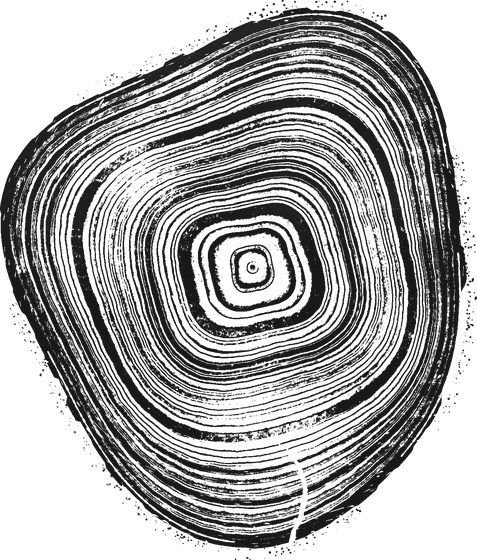
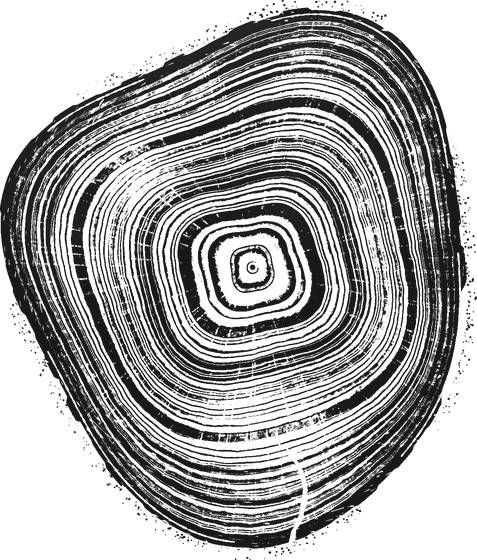
Rays in every wood and more solid ink, as a real tree-ring print has; choice slices re-pressed
Claude-Session: https://claude.ai/code/session_01WhGxUDQ2nhT1B8pKnZrdq5

diff --git a/src/rings/press.ts b/src/rings/press.ts
@@ -1757,6 +1757,38 @@ const ANATOMY: Partial<Record<Kind, Anatomy>> = {
   // Olive: dense, close and irregular, its figure a dark mottle wandering through the years.
   olive: { early: 0.6, late: 0.96, share: 0.22, edge: 1.0, rays: 0.6, rayW: 0.3, pores: 0.05, poreR: 0.3, poreEarly: 0, fibre: 0.35, mottle: 0.45 },
 };
+/**
+ * How strongly each wood's rays print: oak's many and plain, a conifer's barely there.
+ */
+const RAYS: Partial<Record<Kind, number>> = { oak: 0.95, ash: 0.7, cherry: 0.75, maple: 0.8, birch: 0.45, olive: 0.55, pine: 0.3, redwood: 0.25, bristlecone: 0.25 };
+/**
+ * The rays at a point (tree angle `a`, `rho` px out at the slice's own size), 0 to 1. Real rays keep about the
+ * same distance apart all the way out: a few begin at the heart, and as the wood widens new ones begin between
+ * them, each at its own radius; each wanders a little and breaks now and then. Laid out by levels, each twice
+ * the last's, a ray begun at one level running on through all the rest, so none ever jumps.
+ */
+function rayAt(a: number, rho: number): number {
+  const R0 = 10, GAP = 3.6;
+  if (rho < R0 * 0.6) return 0;
+  const lv = Math.max(0, Math.floor(Math.log2(rho / R0))), N0 = Math.max(6, Math.round((TAU * R0) / GAP)), N = N0 * 2 ** lv;
+  const sAt = (((a / TAU) % 1) + 1) % 1 * N, k0 = Math.floor(sAt);
+  let best = 0;
+  for (let k = k0 - 1; k <= k0 + 1; k++) {
+    // (Which level it was born at: k's odd part.)
+    let bk = ((k % N) + N) % N, bl = lv;
+    while (bl > 0 && bk % 2 === 0) { bk /= 2; bl--; }
+    const id = bk * 7.31 + bl * 31.7, nb = N0 * 2 ** bl, born = R0 * 2 ** bl * (bl ? 0.7 + 0.6 * h1(id * 1.9) : 0.6);
+    if (rho < born) continue;
+    // (Where it lies: its birth place, a little off even, wandering slowly outward.)
+    const at = ((bk + 0.5 + (h1(id) - 0.5) * 0.5) / nb + (Math.sin(rho / (40 + 30 * h1(id * 2.3)) + id) * 0.25) / nb) * N;
+    let dd = Math.abs(sAt - at); dd = Math.min(dd, N - dd);
+    const dist = (dd * TAU * rho) / N, half = 0.12 + 0.22 * h1(id * 3.7) ** 2;
+    if (dist > half + 0.6) continue;
+    if (vnoise(id * 0.37, rho / 14) < 0.3) continue;
+    best = Math.max(best, Math.min(1, smooth(1 - (dist - half) / 0.6)) * Math.min(1, (rho - born) / 3));
+  }
+  return best;
+}
 function printYears(v: View, oak: Years | null): void {
   const n = tree.rings.length, c = g.canvas as HTMLCanvasElement, B = 720, Z = Math.max(1, look.k);
   const scr = (r: number) => v.s * warpR(v.warp, r);
@@ -1816,7 +1848,7 @@ function printYears(v: View, oak: Years | null): void {
   // (The drawn woods: each year built as its kind's is, from the earlywood out to the latewood and its edge,
   // with its rays, pores and real fibre; all in the slice's own px (`U`), so looked into they're the same,
   // larger, never a fresh scatter.)
-  const an = oak ? null : ANATOMY[kind] ?? ANATOMY.cherry!, fib = wood.fibre[kind], U = px * Z, conifer = fam() === 'conifer';
+  const an = oak ? null : ANATOMY[kind] ?? ANATOMY.cherry!, fib = wood.fibre[kind], U = px * Z, conifer = fam() === 'conifer', RAY = RAYS[kind] ?? 0;
   const drawnInk = (i: number, a: number, r: number, across: number, heart: boolean, width: number, dx: number, dy: number): number => {
     const A = an!, rho = r / U;
     // The year: earlywood, a little deeper as it goes, then darkening into the latewood, ending sharp.
@@ -1828,12 +1860,6 @@ function printYears(v: View, oak: Years | null): void {
     // The real fibre, streaking along the year.
     if (fib && A.fibre) ink *= 1 + A.fibre * (tile(fib, a * rho * 0.5, rho * 0.5) - 0.5) * 2;
     if (A.mottle) ink *= 1 + A.mottle * (vnoise(dx / (22 * U) + 3.1, dy / (22 * U) + 7.7) - 0.5) * 2;
-    // Rays: fine radial lines, broken now and then, more of them further out, as rays begin as the wood widens.
-    if (A.rays) {
-      const lv = Math.max(0, Math.floor(Math.log2(Math.max(1, rho / 40)))), N = Math.round(A.rays * 22 * 2 ** lv);
-      const sAt = (a / TAU) * N, k = Math.floor(sAt), mid = k + 0.5 + (h1(k * 1.7 + lv * 31) - 0.5) * 0.7, dist = Math.abs(sAt - mid) * (TAU * rho) / N;
-      if (dist < A.rayW * 2 && vnoise(k * 3.1 + lv * 17, rho / 16) > 0.45) ink *= 0.78 + 0.22 * smooth(dist / A.rayW - 0.4);
-    }
     // Pores: open vessels, paper in the print, scattered (or gathered at the year's start), in the wood's place.
     if (A.pores) {
       const C = 3, ci = Math.floor(rho / C), cj = Math.floor((a * rho) / C), hh = h1(ci * 7.31 + cj * 1.713 + i * 0.37);
@@ -1892,6 +1918,9 @@ function printYears(v: View, oak: Years | null): void {
         const cov = Math.max(jo < 0 ? 0 : lineAt(jo, at(jo, b, f) - r), ji < 0 ? 0 : lineAt(ji, r - at(ji, b, f))) * (0.75 + 0.35 * vnoise(dx * 0.11 + i, dy * 0.11));
         if (cov > 0) ink = Math.max(ink, 0.95 * cov);
       }
+      // The rays: the wood's fine radial lines, open to the paper, crossing every year, so the latewood prints
+      // as a run of small bricks.
+      if (RAY && !heart) ink *= 1 - RAY * rayAt(a, r / U);
       const k = (y * w + x) * 4;
       d[k] = INK[0]; d[k + 1] = INK[1]; d[k + 2] = INK[2]; d[k + 3] = Math.round(255 * Math.min(1, ink));
     }
@@ -2001,11 +2030,11 @@ function inkGrain(c: HTMLCanvasElement, v: View, band?: [number, number], soft =
       let took = val;
       if (sea && field) {
         const u = mx * perTex, w = my * perTex;
-        took = val * (0.35 + 0.7 * tile(sea, u + 17, w + 31) * (0.55 + 0.45 * tile(field, (u * fc - w * fs) * 0.8, (u * fs + w * fc) * 0.8)));
+        took = val * (0.62 + 0.48 * tile(sea, u + 17, w + 31) * (0.75 + 0.25 * tile(field, (u * fc - w * fs) * 0.8, (u * fs + w * fc) * 0.8)));
         // (Looked at closer than the print's own grain: finer grain, at the screen's scale, so it stays crisp.)
         if (close > 0) took *= 1 + close * 0.22 * (vnoise((dx / Z) * 0.9 + 3.3, (dy / Z) * 0.9 + 7.1) - 0.5);
       }
-      const thr = 0.5 + (sea ? 0.35 : 0.95) * (t1 - 0.5) + 0.2 * (vnoise(mx * low + 40, my * low + 11) - 0.5) + saw;
+      const thr = 0.5 + (sea ? 0.22 : 0.95) * (t1 - 0.5) + 0.2 * (vnoise(mx * low + 40, my * low + 11) - 0.5) + saw;
       // (Took or not, sharply; `soft` keeps a pixel or so of the edge's own shading, for a print that's
       // shown larger than it was pressed, so it's never stepped.)
       const e = Math.max(0, Math.min(1, (took - thr + 0.07 * soft) / (0.14 * soft)));

diff --git a/RINGS-HISTORY.md b/RINGS-HISTORY.md
@@ -166,3 +166,5 @@ Still to come (`trees.ts`): a redwood with fires, a bristlecone with drought, a 
 **From the artist's own prints** (since October 17). Looking at real tree-ring prints, four things a real pressed slice has that ours didn't: the tree leans, so its heart sits off the middle and its years run wide on one side and close on the other (`leanOf`: none for the first dozen years, gathering over the next sixty, a third to two-thirds wider on its own side); the bark parts from the wood as the slice dries, a broken hairline of paper just inside it; a faint grey stipple just beyond the edge, ink caught from the block's rim; and broad patches where the ink starved, broken by the paper's tooth into speckle. The choosing slices pressed again with them.
 
 **Real ink** (since October 17). The ink's speckle is lifted from photographs of real tree-ring prints: the flecks of paper where the ink broke on the wood, in place of Munch's sea (`ink-speckle.png`; `?ink=munch` for the old).
+
+**Rays and solid ink, as a real print has** (since October 17). Every wood now prints its rays (`rayAt`): hairline radial lines open to the paper, a few from the heart and new ones beginning between them as the wood widens, so they keep about the same distance apart all the way out, each wandering a little and breaking now and then; plainest in oak (its latewood a run of small bricks), faint in the conifers (`RAYS`). And the ink is laid more solidly: the press's starving of it held back, so the black is black, broken only by small flecks, its edges crisp.
